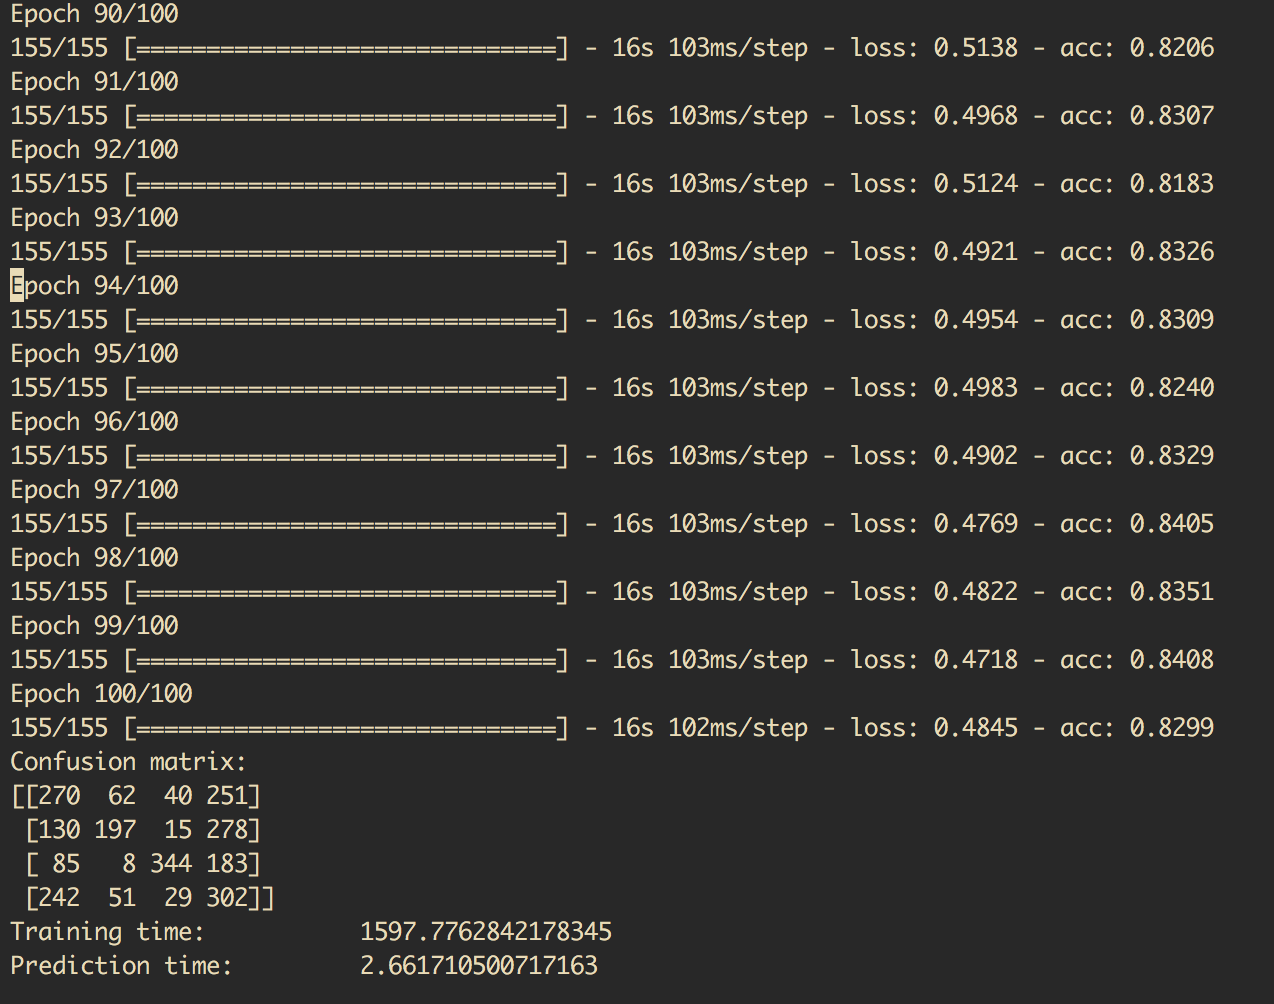
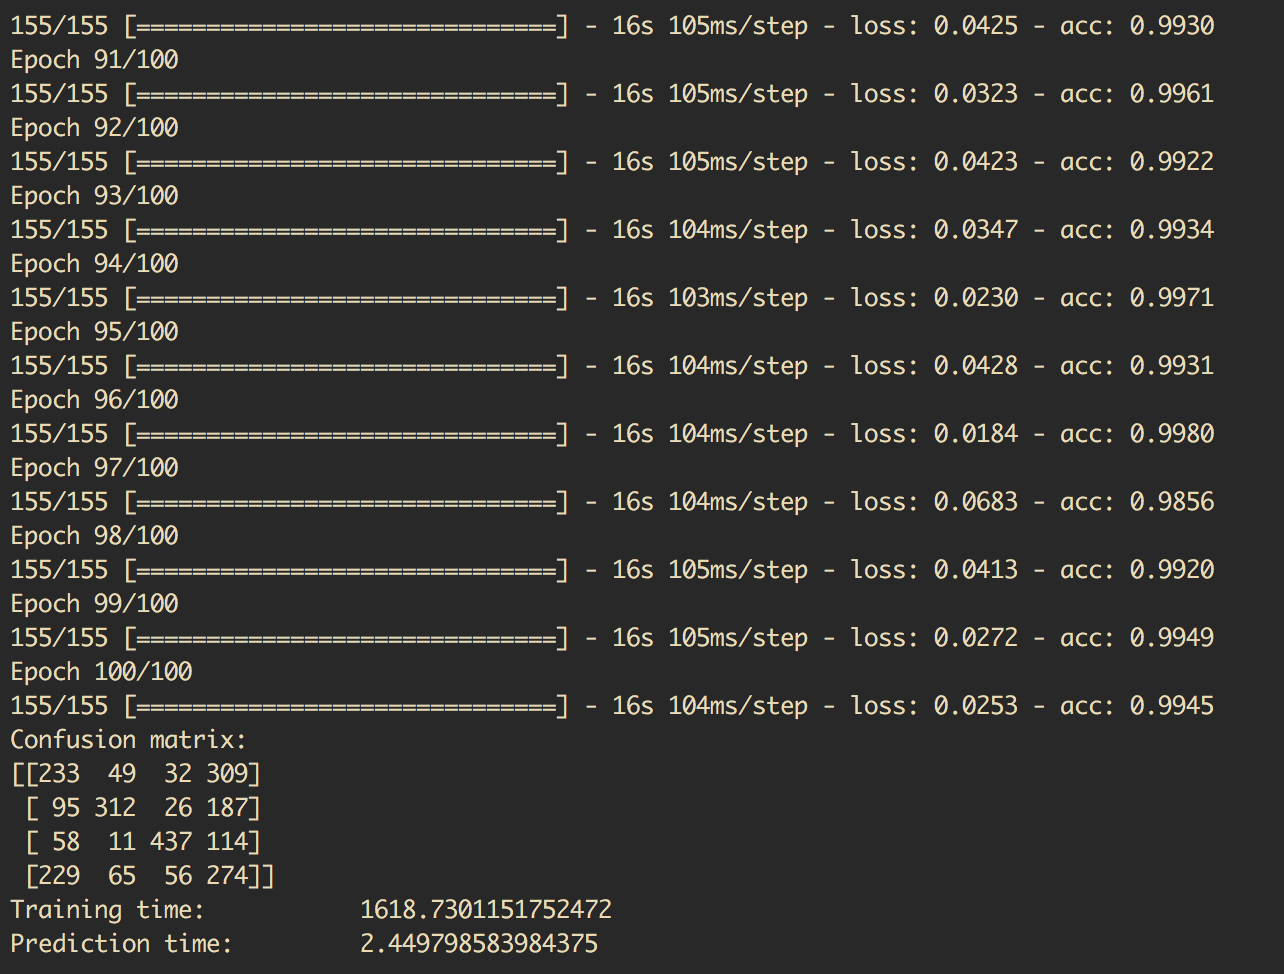
update imag; task3 data; excel

diff --git a/score.py b/score.py
@@ -108,18 +108,18 @@ printMetrics(indx2metrics)
 '''
 Task 3
 Confusion matrix:
-[[270  62  40 251]
- [130 197  15 278]
- [ 85   8 344 183]
- [242  51  29 302]]
+[[233  49  32 309]
+ [ 95 312  26 187]
+ [ 58  11 437 114]
+ [229  65  56 274]]
 Training time:           1597.7762842178345
 Prediction time:         2.661710500717163
 '''
 cm = np.array([
- [270,  62,  40, 251],
- [130, 197,  15, 278],
- [ 85,   8, 344, 183],
- [242,  51,  29, 302],
+ [233,  49,  32, 309],
+ [ 95, 312,  26, 187],
+ [ 58,  11, 437, 114],
+ [229,  65,  56, 274],
 ])
 
 print('task 3')
